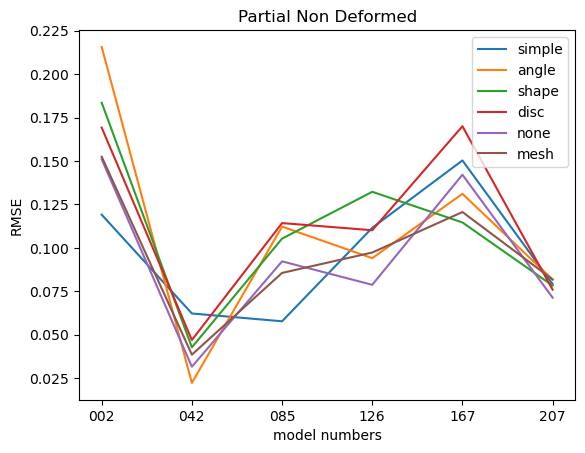
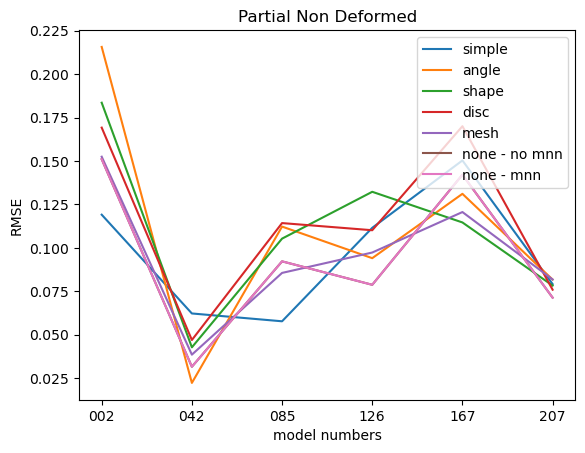
plotting with mnn and no mnn

diff --git a/Testing/exterior_boundary_detection/aggregate_data_edge_filtering_rmse.py b/Testing/exterior_boundary_detection/aggregate_data_edge_filtering_rmse.py
@@ -16,7 +16,7 @@ epoch = 'null'
 training_data = 'pretrained'
 
 models=['002', '042', '085', '126', '167', '207']
-criteria = ['simple', 'angle', 'shape', 'disc', 'none', 'mesh']
+criteria = ['simple', 'angle', 'shape', 'disc', 'mesh', 'none - no mnn', 'none - mnn']
 data_types=['Partial Deformed', 'Partial Non Deformed']
 base = 'Testing/'
 folder = 'exterior_boundary_detection/'
@@ -29,7 +29,14 @@ sub_matrix = {
 final_matrices = {model : copy.deepcopy(sub_matrix) for model in models}
 
 for criterion in criteria:
-    file='testing_' + criterion + '_edge_filtering_pre_' + preprocessing + '_' + feature_extractor + '_td_' + training_data + '_epoch_' + epoch + '.txt'
+
+    if criterion == 'none - no mnn':
+        file='testing_none_edge_filtering_pre_none_' + feature_extractor + '_td_' + training_data + '_epoch_' + epoch + '.txt'
+    elif criterion == 'none - mnn':
+        file='testing_none_edge_filtering_pre_mutual_' + feature_extractor + '_td_' + training_data + '_epoch_' + epoch + '.txt'
+    else:
+        file='testing_' + criterion + '_edge_filtering_pre_' + preprocessing + '_' + feature_extractor + '_td_' + training_data + '_epoch_' + epoch + '.txt'
+    
     file_txt = open(base + folder + file, 'r')
     Lines = file_txt.readlines()
     current_data_type = ''
@@ -56,7 +63,10 @@ for criterion in criteria:
             criterion_val = 'mesh'
 
         if 'Edge filtering not used' in line:
-            criterion_val = 'none'
+            if criterion == 'none - no mnn':
+                criterion_val = 'none - no mnn'
+            elif criterion == 'none - mnn':
+                criterion_val = 'none - mnn'
         
         if line[:-1] in data_types:
             current_data_type = line[:-1]
